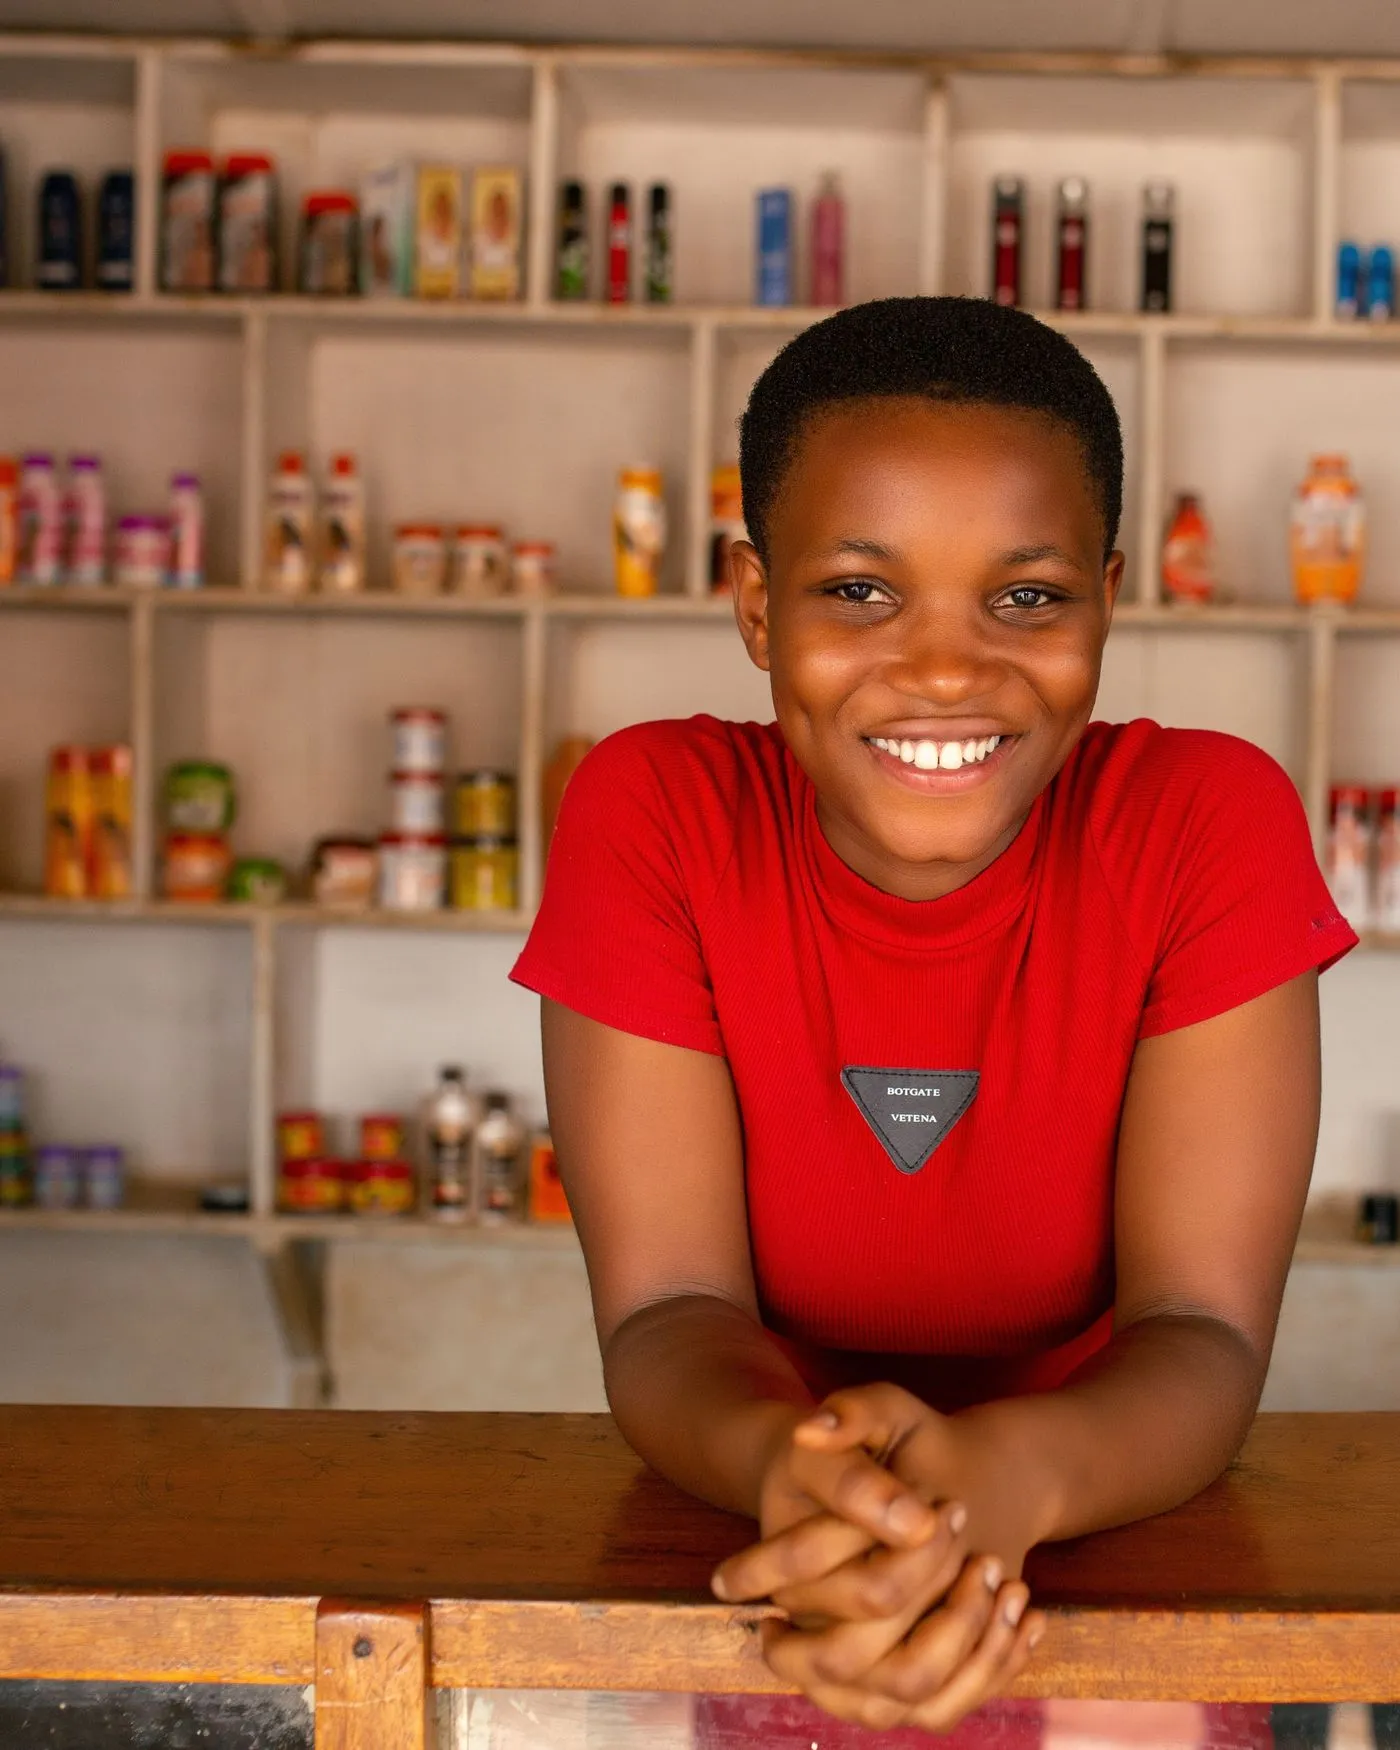
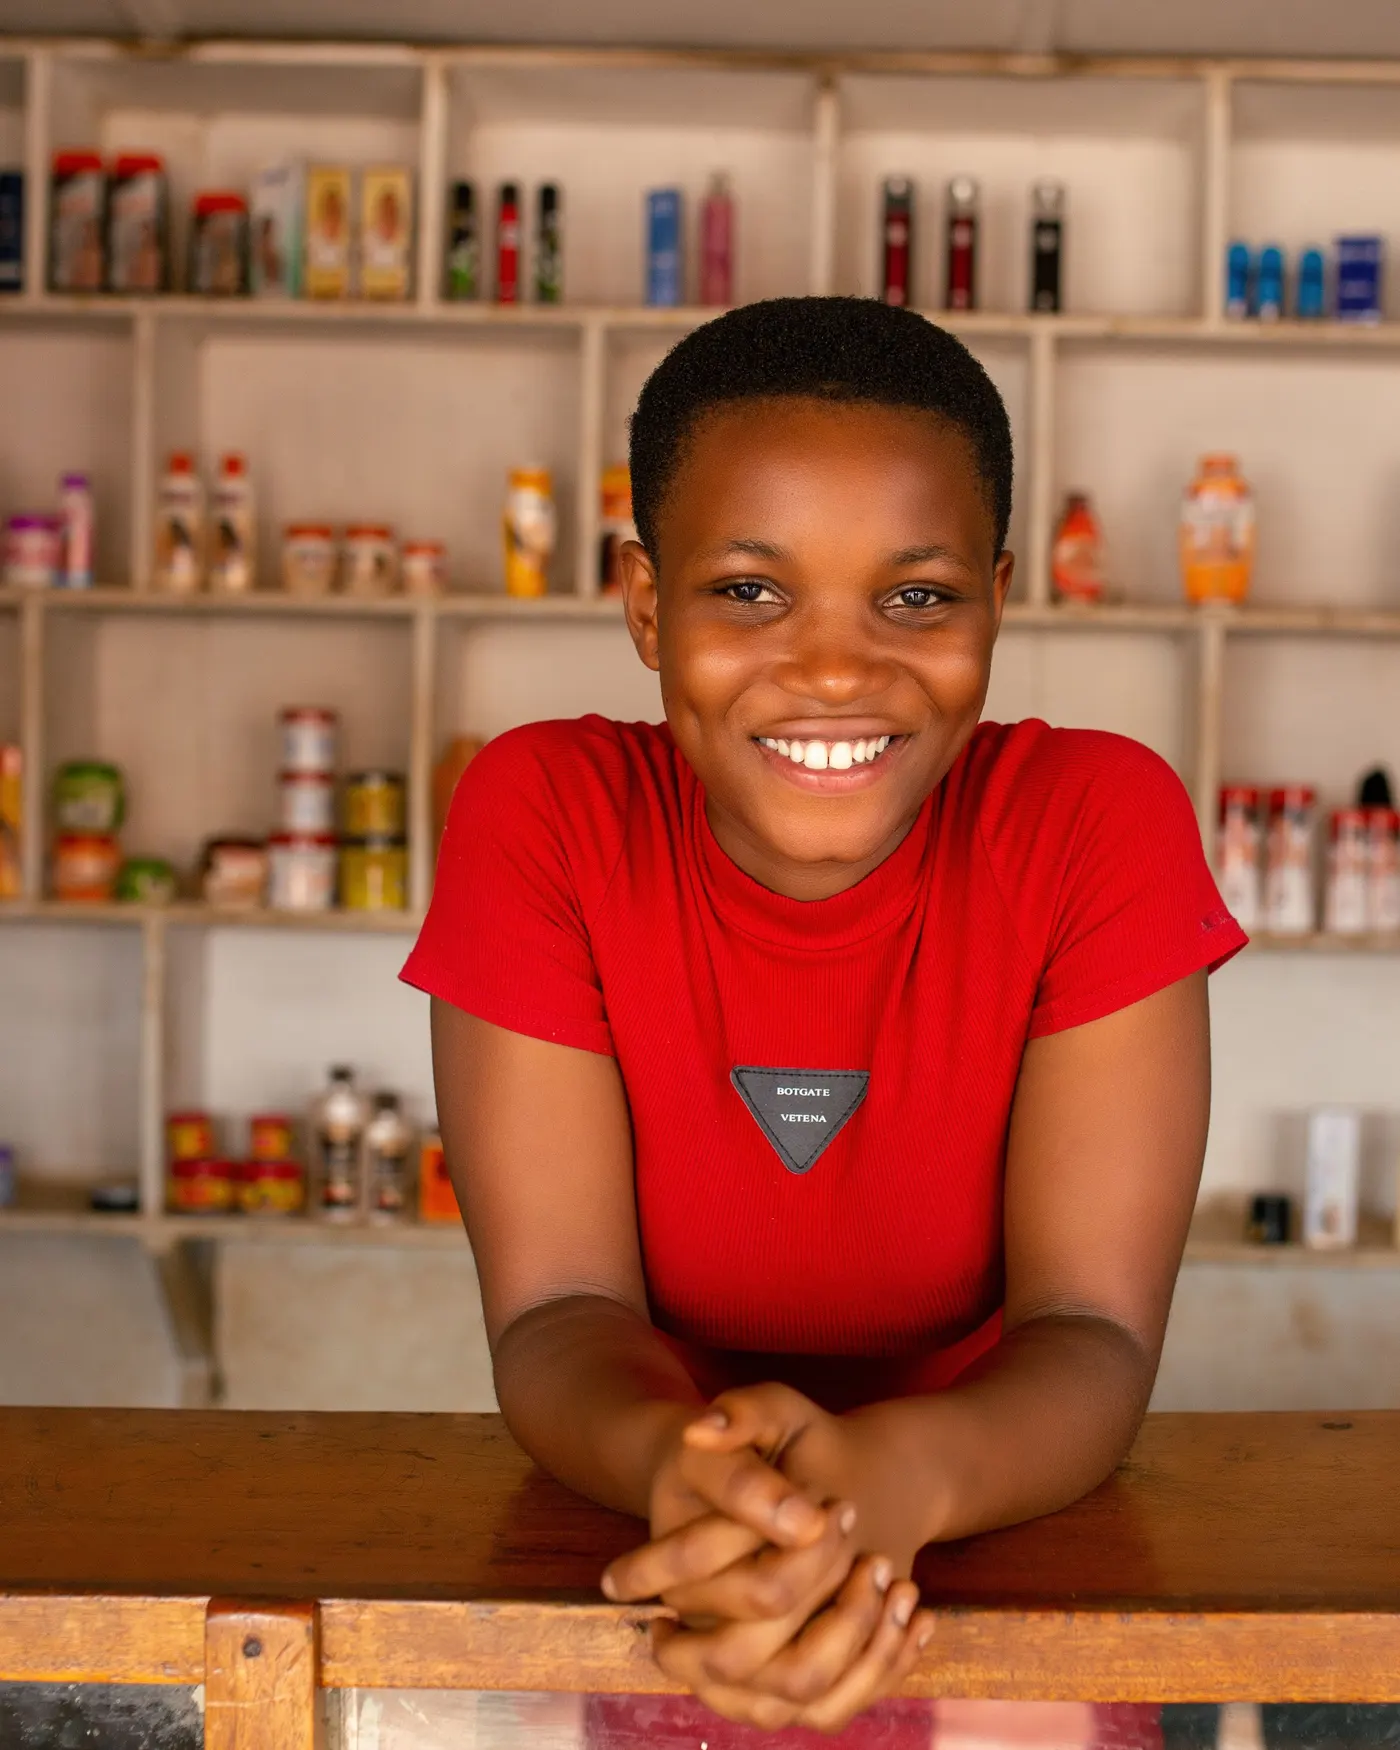
content(web): hero photo of a shopkeeper at her counter
Même mise en scène qu'avant (commerçante derrière son comptoir, rayons garnis, lumière chaude), visage différent. Deux variantes du même parti pris sont conservées pour le choix du client, les crédits et le cadrage sont alignés sur le fichier installé.

diff --git a/src/content/fr/home.ts b/src/content/fr/home.ts
@@ -12,7 +12,7 @@ export const home: HomeContent = {
     tagline: 'Investir. Créer. Accompagner. Faire grandir. Réinvestir.',
     intro:
       'Fonds privé congolais d’investissement, de création et d’accompagnement des petites et moyennes entreprises, microentreprises et activités génératrices de revenus.',
-    image: {src: '/images/home-hero.webp', alt: 'Commerçant souriant derrière le comptoir de son épicerie'},
+    image: {src: '/images/home-hero.webp', alt: 'Commerçante souriante derrière le comptoir de sa boutique, devant ses rayons garnis'},
     primary: {label: 'Soumettre un projet', href: '/soumettre-un-projet'},
     secondary: {label: 'Nous découvrir', href: '/a-propos'},
     cards: {

diff --git a/public/images/CREDITS.md b/public/images/CREDITS.md
@@ -4,7 +4,7 @@ Photos libres de droits utilisées sur lokambe.com.
 
 | Fichier | Auteur | Source | Licence |
 |---|---|---|---|
-| home-hero.webp | Carmel Nsenga | https://www.pexels.com/photo/a-woman-in-plaid-gray-blazer-holding-a-magazine-10146137/ | Pexels License |
+| home-hero.webp | Hashtag Melvin | https://www.pexels.com/photo/19838484/ | Pexels License |
 | home-kinshasa.webp | Kaysha | https://unsplash.com/photos/cars-on-road-under-blue-sky-and-white-clouds-during-daytime-StJWD4ci8wY | Unsplash License |
 | about-hero.webp | Muhammad-Taha Ibrahim | https://www.pexels.com/photo/a-man-sewing-a-cloth-12672102/ | Pexels License |
 | model-hero.webp | Gustavo Fring | https://www.pexels.com/photo/man-working-in-bakery-by-display-window-7447281/ | Pexels License |
@@ -23,8 +23,11 @@ Photos libres de droits utilisées sur lokambe.com.
 | sector-medias.webp | Isaiah Ekele | https://www.pexels.com/photo/man-behind-a-video-camera-14699461/ | Pexels License |
 | sector-education.webp | illustrate Digital Ug | https://www.pexels.com/photo/a-group-of-people-standing-in-a-workshop-20853660/ | Pexels License |
 | cta-entrepreneur.webp | Etty Fidele | https://unsplash.com/photos/AzVexpHvuKY | Unsplash License |
+| home-hero-alt-1.webp | Safari Consoler | https://www.pexels.com/photo/11588303/ | Pexels License |
+| home-hero-alt-2.webp | Hakim LEVEL | https://www.pexels.com/photo/33251084/ | Pexels License |
+| home-hero-office.webp | Carmel Nsenga | https://www.pexels.com/photo/a-woman-in-plaid-gray-blazer-holding-a-magazine-10146137/ | Pexels License |
 | home-hero-previous.webp | Muhammad-Taha Ibrahim | https://www.pexels.com/photo/nigerian-shopkeeper-in-local-grocery-store-30020992/ | Pexels License |
 
 > `home-hero-previous.webp` est l'ancienne photo de la hero (commerçant à Abuja, Nigeria), conservée pour pouvoir revenir en arrière. La source haute résolution est dans `images-raw/candidates/home-hero-previous-source.jpg`.
 >
-> Cadrage de `home-hero.webp` (4:5, 1400 px) : `{ratio: 4 / 5, maxWidth: 1400, zoom: 0.84, fx: 0.55, fy: 0.04}` — à reporter dans `FRAMING['home-hero']` de `scripts/optimize-images.mjs` (l'ancien cadrage `zoom: 0.9, fx: 0, fy: 0.25` correspondait à l'ancienne photo).
+> `home-hero.webp` : commerçante derrière son comptoir. Deux variantes du même parti pris sont conservées pour le choix du client — `home-hero-alt-1.webp` (artisan dans son atelier de sandales) et `home-hero-alt-2.webp` (commerçante dans son étal de marché). `home-hero-office.webp` et `home-hero-previous.webp` sont les deux versions écartées (portrait de bureau, commerçant à Abuja).
